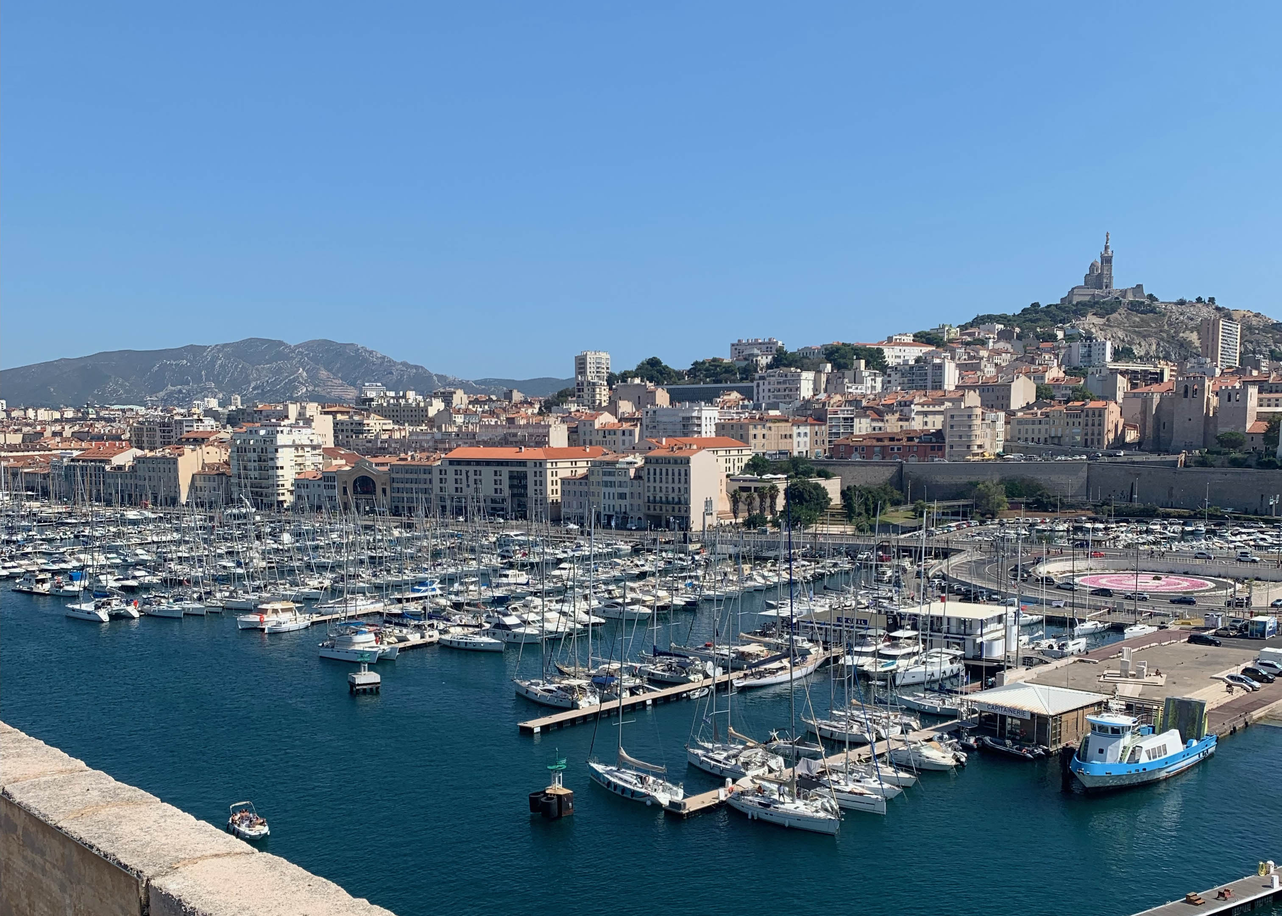
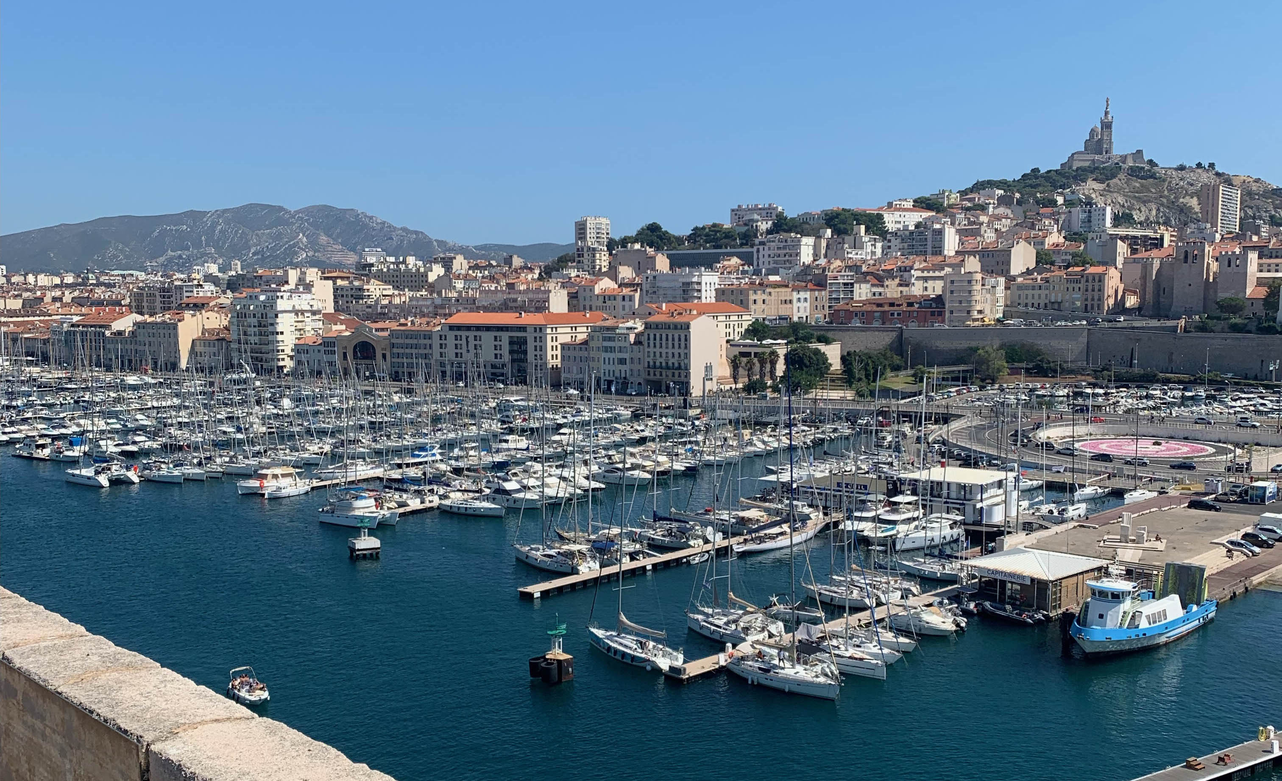
modified img marseille and width section

diff --git a/src/app/histoire/page.tsx b/src/app/histoire/page.tsx
@@ -84,12 +84,12 @@ export default function Contact() {
           </div>
         </div>
 
-        <div className='w-full md:max-w-3xl mx-auto flex flex-col items-center '>
+        <div className='w-full md:max-w-5xl md:px-8 mx-auto flex flex-col items-center '>
           <div className='w-full mx-auto grid grid-cols-1 items-center'>
             <Image
-              className='w-full h-auto object-cover mm:max-h-[300px]'
+              className='w-full h-auto object-cover object-center mm:max-h-[400px]'
               src='/photos/histoire-marseille.jpg'
-              alt='Vue de la boutique Coq en Stock à Marseille'
+              alt='Vue de Marseille'
               width={600}
               height={400}
               loading='lazy'
